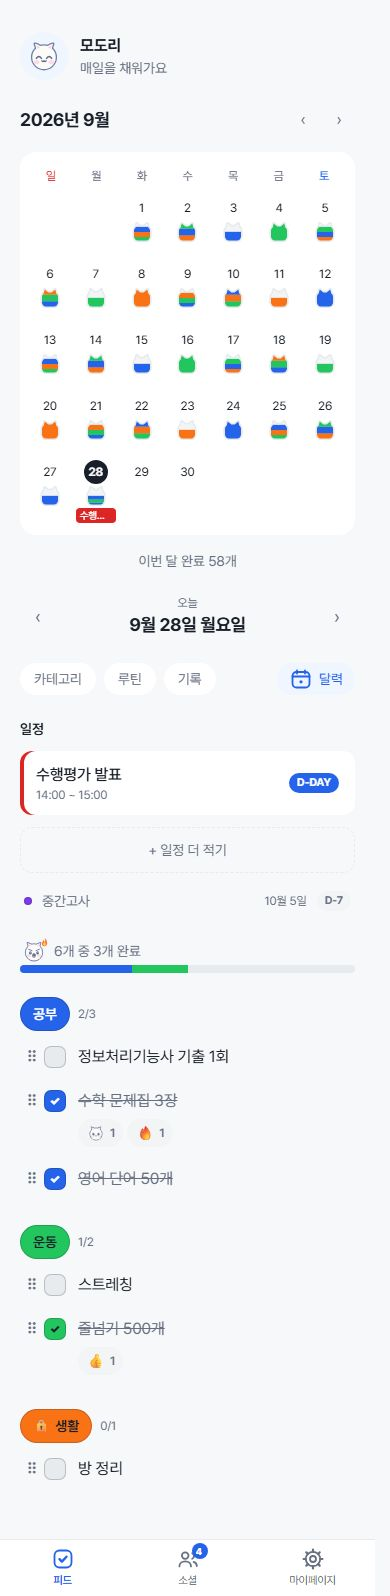
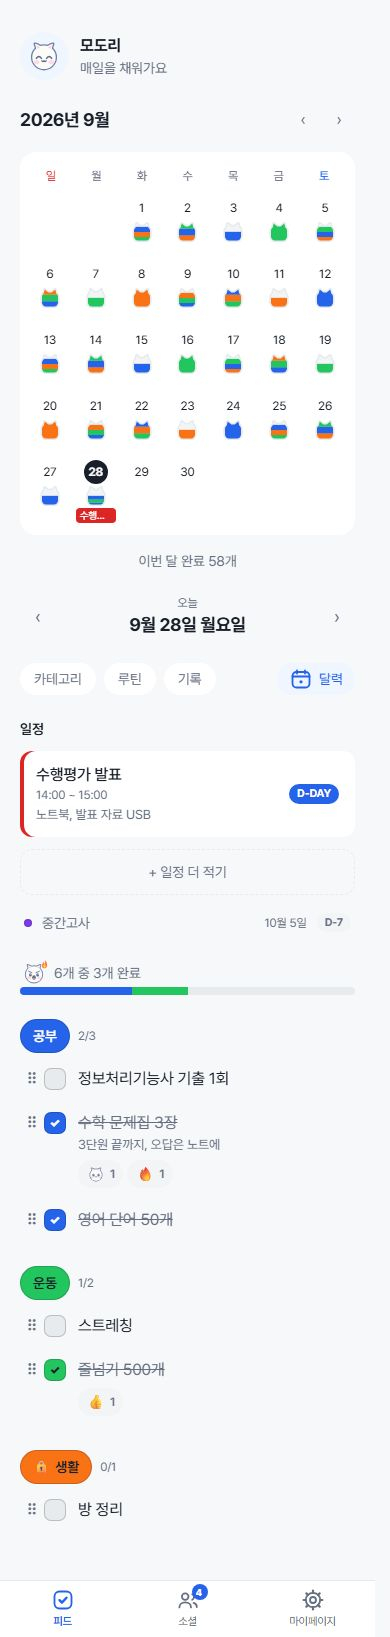
docs: 메모와 다른 날에 하기가 들어간 화면으로 스크린샷을 다시 찍는다

diff --git a/docs/screenshots/README.md b/docs/screenshots/README.md
@@ -45,4 +45,4 @@ SCREENSHOT_DIR=2026-10-01 npm run screenshots  # 폴더 이름을 정할 때
 
 | 날짜 | main 커밋 | 바뀐 화면 |
 |---|---|---|
-| 2026-09-28 | 8bee4da(이 코드로 찍음) | 첫 기준 — 모든 화면 |
+| 2026-09-28 | 41257a3(이 코드로 찍음, 같은 날 첫 기준 8bee4da를 덮어씀) | 첫 기준 — 모든 화면. 할 일·일정 메모, 할 일 창(다른 날에 하기) |
